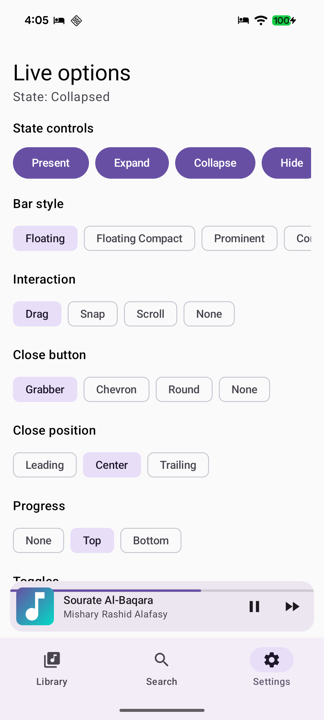
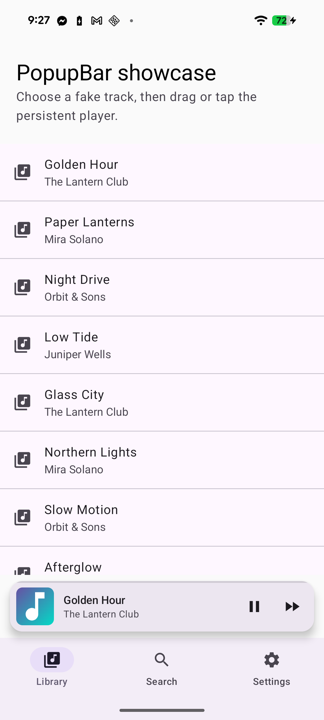
Make the sample library generic and refresh the README captures

diff --git a/sample/src/main/java/com/fethica/popupbar/sample/OptionsScreen.kt b/sample/src/main/java/com/fethica/popupbar/sample/OptionsScreen.kt
@@ -68,13 +68,13 @@ internal fun LibraryScreen(onTrackSelected: (String, String) -> Unit) {
         }
         items((1..60).toList(), key = { it }) { index ->
             ListItem(
-                headlineContent = { Text("Sourate ${surahName(index)}") },
-                supportingContent = { Text(reciterName(index)) },
+                headlineContent = { Text(trackTitle(index)) },
+                supportingContent = { Text(artistName(index)) },
                 leadingContent = {
                     Icon(Icons.Filled.LibraryMusic, contentDescription = null)
                 },
                 modifier = Modifier.clickable {
-                    onTrackSelected("Sourate ${surahName(index)}", reciterName(index))
+                    onTrackSelected(trackTitle(index), artistName(index))
                 },
             )
             HorizontalDivider()
@@ -248,20 +248,20 @@ private fun Enum<*>.displayName(): String = name.replace(
     " ",
 )
 
-private fun surahName(index: Int): String = when ((index - 1) % 8) {
-    0 -> "Al-Baqara"
-    1 -> "Ali 'Imran"
-    2 -> "An-Nisa"
-    3 -> "Al-Ma'idah"
-    4 -> "Al-An'am"
-    5 -> "Al-A'raf"
-    6 -> "Al-Anfal"
-    else -> "At-Tawbah"
+private fun trackTitle(index: Int): String = when ((index - 1) % 8) {
+    0 -> "Golden Hour"
+    1 -> "Paper Lanterns"
+    2 -> "Night Drive"
+    3 -> "Low Tide"
+    4 -> "Glass City"
+    5 -> "Northern Lights"
+    6 -> "Slow Motion"
+    else -> "Afterglow"
 }
 
-private fun reciterName(index: Int): String = when ((index - 1) % 4) {
-    0 -> "Mishary Rashid Alafasy"
-    1 -> "Abdul Basit Abdus Samad"
-    2 -> "Mahmoud Khalil Al-Husary"
-    else -> "Muhammad Siddiq Al-Minshawi"
+private fun artistName(index: Int): String = when ((index - 1) % 4) {
+    0 -> "The Lantern Club"
+    1 -> "Mira Solano"
+    2 -> "Orbit & Sons"
+    else -> "Juniper Wells"
 }

diff --git a/sample/src/main/java/com/fethica/popupbar/sample/FakePlayer.kt b/sample/src/main/java/com/fethica/popupbar/sample/FakePlayer.kt
@@ -7,8 +7,8 @@ import androidx.compose.runtime.setValue
 import kotlinx.coroutines.delay
 
 internal class FakePlayer {
-    var title by mutableStateOf("Sourate Al-Baqara")
-    var subtitle by mutableStateOf("Mishary Rashid Alafasy")
+    var title by mutableStateOf("Golden Hour")
+    var subtitle by mutableStateOf("The Lantern Club")
     var isPlaying by mutableStateOf(true)
     var positionMs by mutableLongStateOf(0L)
     val durationMs: Long = 30L * 60_000L
